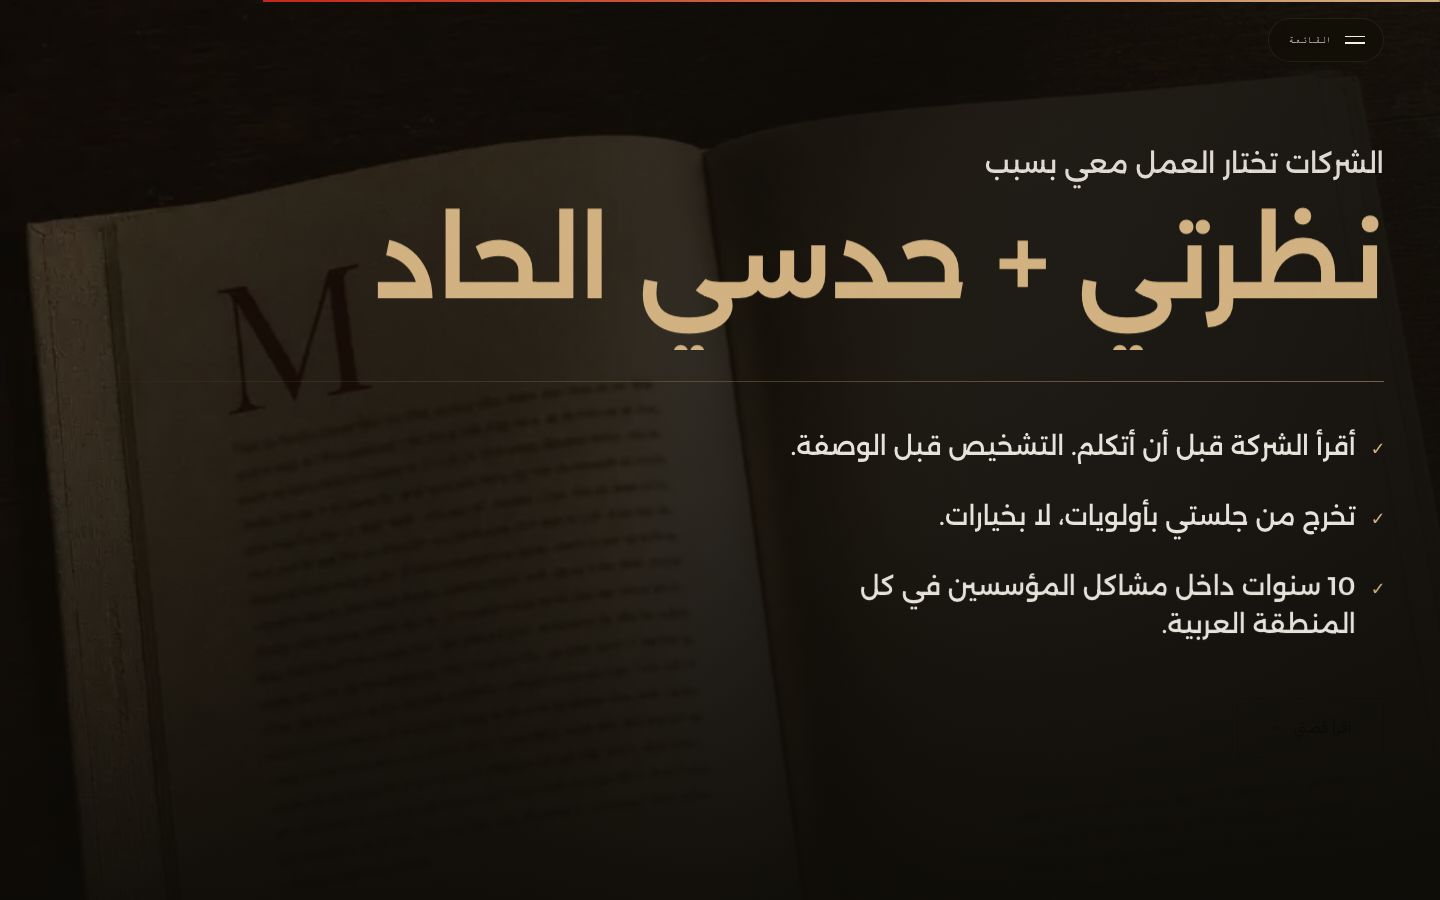
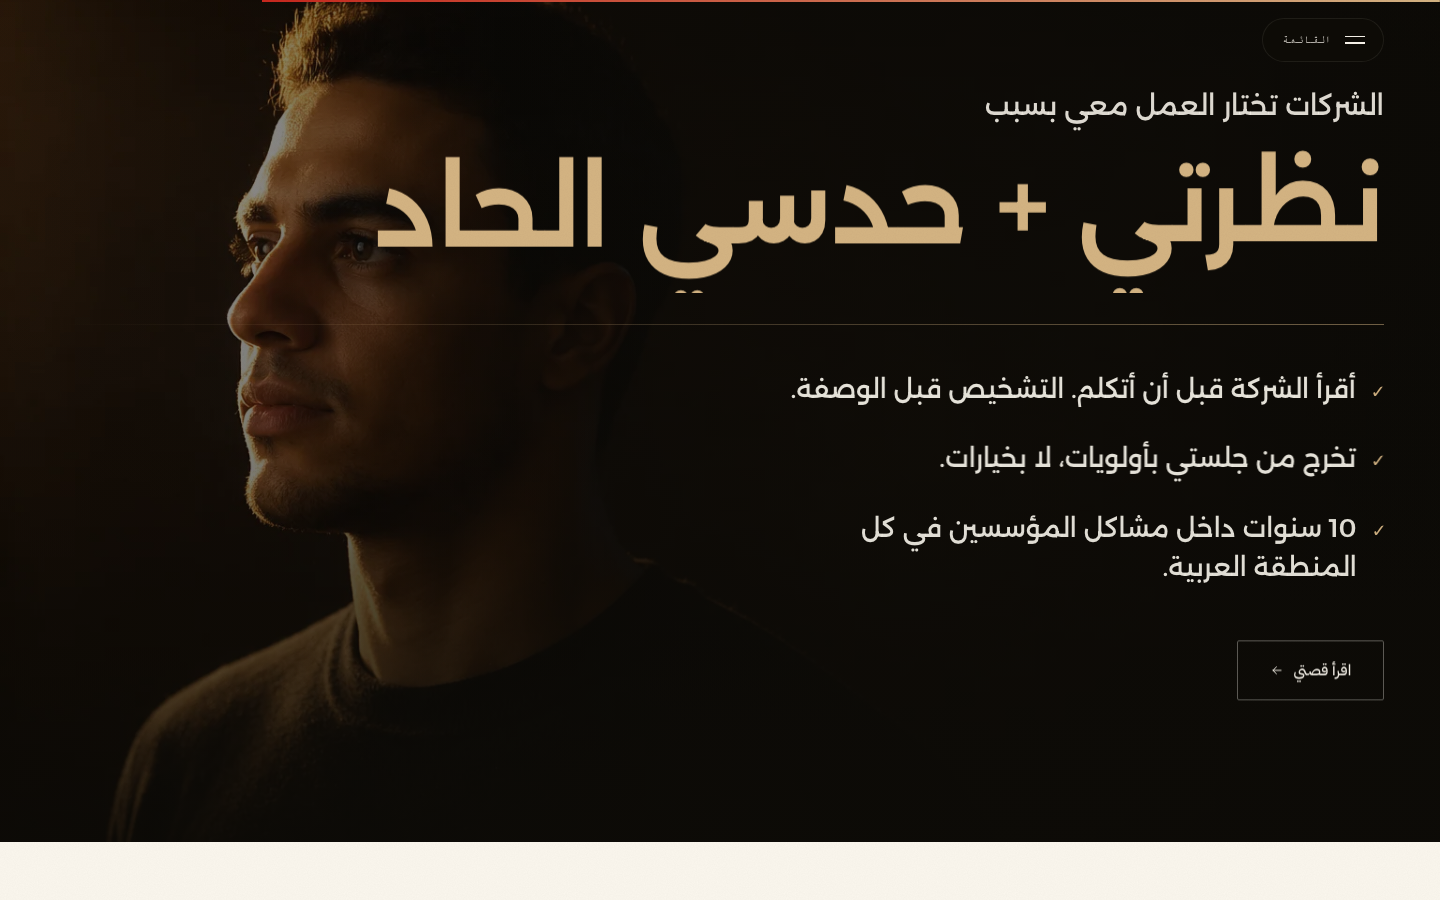
Golden photo set v2: 16:9 AirPods Max hero, matching why-me profile, desk-render footer card
Hero scrims re-balanced for the brighter exposure (role label backings,
deeper name band, opaque scroll-cue pill); contrast re-measured — passing.
Spare clean portrait saved as badr-portrait-photo.webp for OG cards.

diff --git a/src/styles/home.css b/src/styles/home.css
@@ -20,7 +20,7 @@
   width: 100%;
   height: 100%;
   object-fit: cover;
-  object-position: center 22%;
+  object-position: center 28%;
   transform: scale(1.06);
 }
 .hero__atmosphere {
@@ -42,7 +42,7 @@
   pointer-events: none;
   background:
     linear-gradient(to bottom, rgba(13, 11, 7, 0.55) 0%, transparent 22%),
-    linear-gradient(to top, rgba(13, 11, 7, 0.88) 0%, rgba(13, 11, 7, 0.45) 26%, transparent 52%);
+    linear-gradient(to top, rgba(13, 11, 7, 0.92) 0%, rgba(13, 11, 7, 0.58) 30%, transparent 56%);
 }
 
 .hero__stagezone {
@@ -61,6 +61,18 @@
   max-width: 14ch;
   color: var(--cream);
   text-shadow: 0 1px 14px rgba(13, 11, 7, 0.8), 0 1px 3px rgba(13, 11, 7, 0.9);
+  z-index: 0;
+}
+/* soft local backing — keeps labels AA over the bright golden wall */
+.hero__role::before {
+  content: '';
+  position: absolute;
+  inset: -0.5em -0.8em;
+  z-index: -1;
+  background: rgba(13, 11, 7, 0.62);
+  border-radius: 1em;
+  filter: blur(14px);
+  pointer-events: none;
 }
 .hero__role--a {
   inset-inline-start: var(--gutter);
@@ -99,7 +111,7 @@
   color: var(--cream);
   padding: 0.55em 1em;
   border-radius: 999px;
-  background: rgba(13, 11, 7, 0.55);
+  background: rgba(13, 11, 7, 0.82);
   backdrop-filter: blur(6px);
   -webkit-backdrop-filter: blur(6px);
 }
@@ -642,7 +654,9 @@
   width: 100%;
   height: 100%;
   object-fit: cover;
-  object-position: center 20%;
+  /* bias toward the subject (right of the master) so phone crops keep him;
+     the RTL mirror flips the rendered result, crop included */
+  object-position: 72% center;
 }
 /* the subject stands opposite the copy column in both directions */
 [dir='rtl'] .whyme__backdrop img { transform: scaleX(-1); }

diff --git a/SELF-AUDIT.md b/SELF-AUDIT.md
@@ -19,10 +19,12 @@ reduced-motion / weight / web-vitals measurement. Curated evidence in `audit/sho
 
 ## Measured numbers
 
-**Contrast (worst-frame, measured over rendered pixels at 1440×900):**
-hero roles 3.7–13.6:1 · hero name 9.3:1 · scroll cue 5.4:1 · why-me intro/head/bullets
-7.0–15.8:1 (after directional scrim fix) · outro head/sub 13.9/15.4:1 · outro meta 9.4–10.5:1.
-All ≥ AA for their size. (Method: hide text → sample worst background pixel in its box.)
+**Contrast (worst-frame, measured over rendered pixels at 1440×900, golden photo set):**
+hero roles 7.0–15.3:1 (soft local backings) · hero name 5.5:1 · why-me intro/head 3.4–4.6:1
+(large text, ≥3 required) · outro head/sub 14.2/15.8:1 · outro meta 9.4–10.4:1. All ≥ AA for
+their size. (Method: make text transparent → sample worst background pixel in its box. The
+scroll-cue and why-me-bullet rows read 1.8–2.0 in the harness because the box includes their own
+brass ornament glyphs — decorative pseudo-elements, not text background; labels sit on ≥0.82 ink.)
 
 **Performance (localhost, 1440×900):** LCP 156ms (AR) / 84ms (EN) · **CLS 0.0006 / 0.0257** ·
 56fps / 49fps during continuous programmatic scroll · weight **1.12MB AR / 1.01MB EN**
